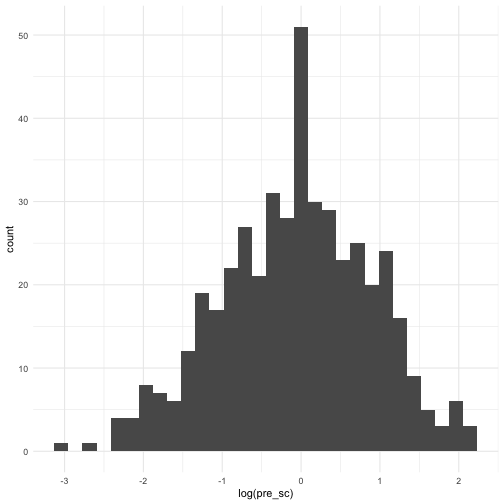
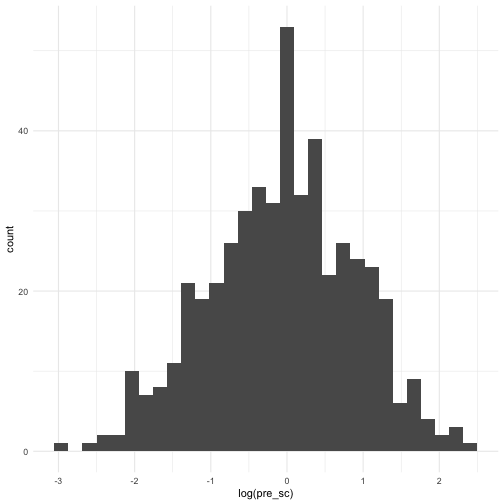
Cleaning up week 4

diff --git a/static/slides/EDUC_847/EDUC_847_Week_4.html b/static/slides/EDUC_847/EDUC_847_Week_4.html
@@ -23,11 +23,23 @@ class: center, middle, inverse, title-slide
 ### Eric Brewe <br> Professor of Physics at Drexel University <br>
 ]
 .date[
-### 29 January 2025, last update: 2025-01-29
+### 29 January 2025, last update: 2025-02-05
 ]
 
 ---
 
+# Let's set the stage
+
+* Last week we talked about the assumptions that go into linear modeling. 
+* We didn't talk about what happens when these assumptions are violated. 
+
+This week we'll discuss
+* Data transformations
+* Missing data
+
+Both of these are real issues that arise all the time in doing regression analyses. 
+
+---
 
 
 
@@ -58,9 +70,9 @@ sci_df &lt;- read_csv(here("data",
 ### We want to predict a science score from a math score. 
 
 ``` r
-*sci_mod &lt;- lm(sci ~ math_sc, data = sci_df)
+*Mod1 &lt;- lm(sci ~ math_sc, data = sci_df)
 
-summary(sci_mod)
+summary(Mod1)
 ```
 
 ```
@@ -94,6 +106,7 @@ Note - we have a new dataset!
 
 ``` r
 Mod2 &lt;- lm(sci ~ pre_sc, data = sci_df)
+
 summary(Mod2)
 ```
 
@@ -141,7 +154,7 @@ There aren't any individual data points that are really impacting our model
 # Let's start with a scatter plot 
 ![](EDUC_847_Week_4_files/figure-html/ScatterPlotWithResiduals-1.png)&lt;!-- --&gt;
 
-That doesn't look good, doesn't look normal
+That doesn't look good, doesn't look like the residuals are normally distributed
 ---
 # Let's check the normality
 
@@ -158,7 +171,7 @@ We can do a histogram of residuals
 
 
 ``` r
-sci_mod_df %&gt;%
+Mod2_df %&gt;%
   ggplot(aes(y = .resid)) +
   geom_histogram() + 
   theme_minimal() + 
@@ -182,7 +195,7 @@ Also doesn't hurt to check the pre_score itself
 .pull-right[
 
 ``` r
-sci_mod_df %&gt;%
+Mod2_df %&gt;%
   ggplot(aes(y = pre_sc)) +
   geom_histogram() + 
   theme_minimal() + 
@@ -211,7 +224,7 @@ The most common transformation is a log transformation
 
 
 ``` r
-sci_mod_df %&gt;%
+sci_df %&gt;%
   ggplot(aes(y = log(pre_sc))) +
   geom_histogram() + 
   theme_minimal() + 
@@ -287,6 +300,8 @@ summary(Mod3)
 ```
 
 
+
+
 ---
 # Let's check the normality
 
@@ -303,7 +318,7 @@ We can do a histogram of residuals for transformed data
 
 
 ``` r
-log_sci_mod_df %&gt;%
+log_Mod3_df %&gt;%
   ggplot(aes(y = .resid)) +
   geom_histogram() + 
   theme_minimal() + 
@@ -312,12 +327,22 @@ log_sci_mod_df %&gt;%
 ]
 
 
+---
+# Let's evaluate this new model
+
+Is this model with the transformed data better?
+
+*  The `\(R^2\)` is lower in the new model
+*  The residuals aren't normally distributed.
+
+So maybe this data transformation was not the right way to go. There are other approaches to data transformation. 
+
 
 ---
-# Let's consider some other transforms
+# Let's consider another transform
 
 ## Another common transformation is to use Z-scores
-This makes it easy to compare coefficients
+This makes it easy to compare coefficients across models and between different variables. 
 
 
 ``` r
@@ -350,7 +375,11 @@ summary(Mod4)
 Hey, notice that the t-value and the p value both stay the same as the first model!
 
 ---
-# Let's deal with these missing data!
+# Let's move on to missing data. 
+
+
+---
+# Let's inspect our data
 
 
 ``` r
@@ -377,7 +406,7 @@ summary(sci_df)
 ```
 
 
-Any thoughts?
+What do you notice?
 
 ---
 # Let's deal with these missing data!
